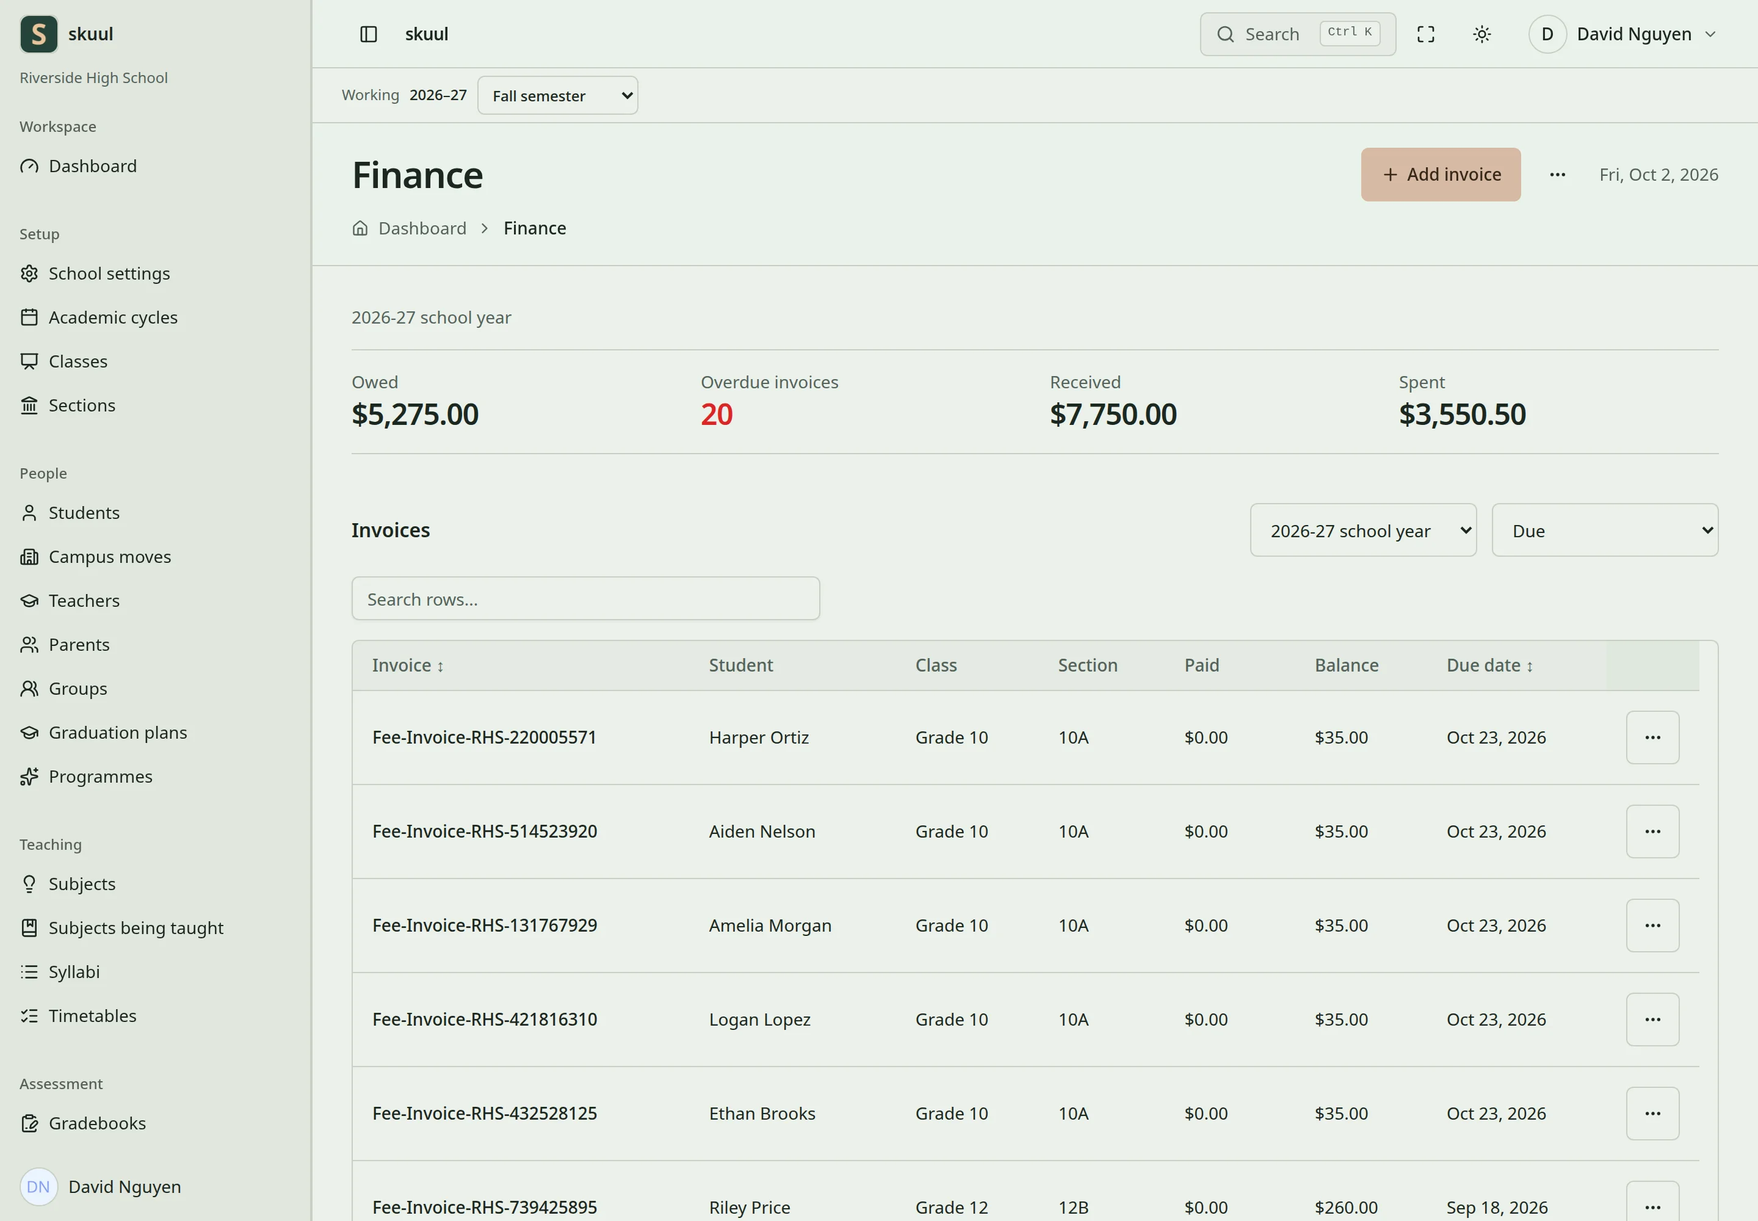
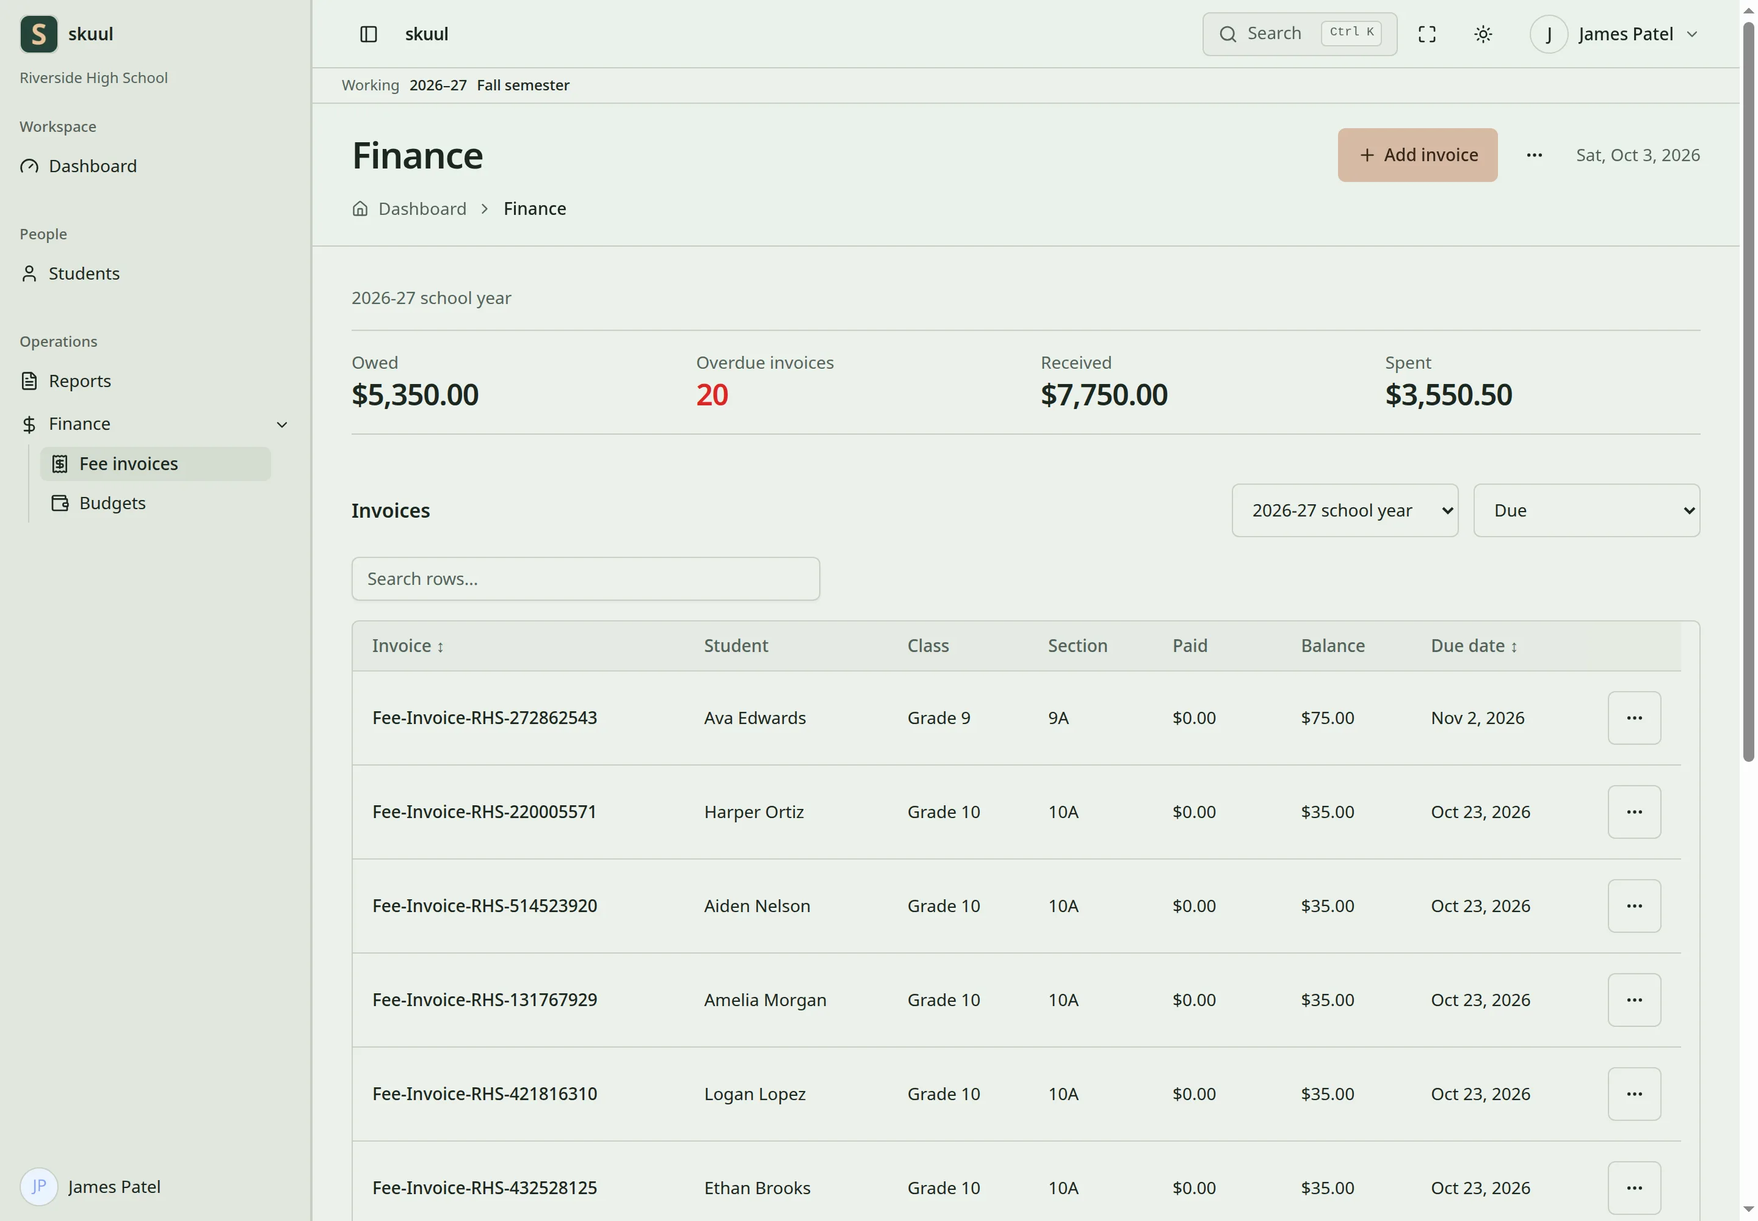
Match the invoice and payment guides to the app
Show where fee categories and fees are, the form total, the status
names, and how to correct a posted invoice. Describe the labelled
payment form, held credit, take-backs, refunds, waivers, and
write-offs as they run. Add the create form, the invoice, and the
student account, and recapture the Finance page and payment form.

diff --git a/current/finance/payments.md b/current/finance/payments.md
@@ -1,113 +1,133 @@
 # Payments, credit, refunds, and corrections
 
-Record money only after the office confirms receipt.
-Open **Finance → Fee invoices**, select the invoice, then select **Take payment**.
-Use **Student account** for credit, reversals, refunds, waivers, and write-offs.
+Record money only after the office confirms that it arrived.
+Take a payment from the invoice.
+Use the learner's **Student account** for credit, refunds, take-backs, waivers, and write-offs.
 
 ## Access and amount rules
 
-Reading invoices requires `read fee invoice`.
-Taking payment and applying held credit require `update fee invoice`.
-Reversals, refunds, waivers, and write-offs require `refund student payment`.
-The relevant record must belong to the authorized billing campus.
+| Task | Campus permission |
+| --- | --- |
+| Read invoices and accounts | `read fee invoice` |
+| Take a payment, or use held credit | `update fee invoice` |
+| Take back a payment, give money back, waive, or write off | `refund student payment` |
 
-Payment and adjustment fields use decimal major units.
-For NGN, enter `1250.50` for ₦1,250.50.
-Invoice creation requires whole major-unit amounts instead. See [invoice amount rules](./invoices).
+Payment and adjustment amounts accept two decimal places, such as `1250.50`.
+Invoice amounts are whole numbers. See [invoice amount rules](./invoices).
 
 ## Record a payment
 
-![The payment form shows what the learner owes, the amount, date, method, reference, and note fields.](/images/current/student-payment-light-desktop.webp)
+![The Take payment form shows who pays, what is paid and owed, then Amount, Received on, Paid by, Reference, Note, and Record payment.](/images/current/student-payment-light-desktop.webp)
 
 Record money received and review any credit left unallocated.
 
-1. Verify the learner and invoice against the receipt or bank confirmation.
-2. Enter **Amount** and **Received on**.
-3. Select the method under **Paid by**.
-4. Enter **Reference** and an optional **Note**.
-5. Review allocation or select **Split across fees**.
-6. Select **Record payment**.
-7. Review the confirmation, invoice balance, and payment history.
+1. Open the invoice and select **Take payment**.
+2. Check the learner under **From**, and what is **Owed**.
+3. Enter **Amount**.
+4. Check **Received on**. It shows today. A future date is refused.
+5. Under **Paid by**, select how the money came.
+6. Enter **Reference**. It is required for every method except **Cash**.
+7. Enter an optional **Note**.
+8. Select **Record payment**.
+
+The invoice opens with the message **Payment recorded.**
+Money above what the invoice owes is held as credit, and the message names the amount.
+The invoice's **Payments** list shows the part of each payment used on this invoice.
+Select **Receipt** to print a receipt.
 
 | Field | Requirement |
 | --- | --- |
-| Amount | From 0.01 to 100000000, with at most two decimal places. |
-| Received on | Defaults to campus today. Future dates fail. |
-| Paid by | Available channel in this installation. |
-| Reference | Required for noncash office channels. Maximum 100 characters. |
-| Note | Optional. Maximum 1000 characters. |
-| Split amounts | Nonnegative, with at most two decimal places. |
+| Amount | From 0.01 to 100000000, with up to two decimal places. |
+| Received on | Today or earlier. |
+| Paid by | Cash, Bank transfer, Cheque, Card machine, or Mobile money. |
+| Reference | Required except for Cash. Up to 100 characters. |
+| Note | Optional. Up to 1000 characters. |
 
-Cash posts to the cash account.
-Bank transfer, Cheque, Card machine, and Mobile money post to the bank account.
-A manually recorded channel is evidence entered by the cashier; it does not verify settlement with a provider.
-The current family portal does not provide checkout.
-The Stripe extension does not supply a complete checkout and callback workflow.
+Cash goes to the cash account. The other methods go to the bank account.
+The method is what the cashier records. The app does not check it with a bank or provider.
+The family portal has no online payment.
 
-## Allocate or hold credit
+A reference already used for a payment of this learner is refused, unless that payment was taken back.
+Letter case does not matter: `ach-240104` matches `ACH-240104`.
+The message names the date of the earlier payment. Check it before you try again.
 
-Automatic allocation clears the invoice's oldest eligible fees first.
-**Split across fees** appears when more than one fee remains outstanding.
-Enter the intended allocation for each fee; blank fields allocate nothing to that fee.
-The total split must not exceed the payment.
-Each split must not exceed that fee's outstanding amount.
-Unallocated money remains held credit on the learner's account.
+## Split a payment across fees
+
+**Split across fees** shows when the invoice owes more than one fee.
+Without a split, the payment clears the oldest fees first.
+
+1. Select **Split across fees**.
+2. Enter the amount for each fee. A blank fee gets nothing.
+3. Select **Record payment**.
+
+The split cannot be more than the payment, or more than a fee owes.
+What the split leaves over is held as credit.
 
 Example: an invoice owes 70.00 tuition and 30.00 materials.
-A payment of 120.00 allocates 100.00 and leaves 20.00 held credit.
-If a split allocates only 70.00, the remaining 50.00 stays held credit.
-Held credit is not additional income when later allocated.
+A payment of 120.00 without a split pays both and holds 20.00 as credit.
+With a split of 70.00 to tuition, 50.00 is held as credit.
 
-Open **Student account** and select **Use credit against fees** to allocate available credit to eligible outstanding fees.
-Review the new allocations and remaining credit.
-The action records no new cash or bank receipt.
+## Use held credit
 
-## Correct a payment
+![The Student account shows what the learner owes and the credit held, their invoices, and their payments, with a reversal and a payment taken back.](/images/current/student-account-light-desktop.webp)
+
+Open the invoice's ellipsis and select **Student account**.
+The account shows **Owed**, **Credit held**, the invoices, and the payments.
+
+When the learner holds credit and owes money, select **Use credit against fees**.
+The message names the amount used.
+Using credit records no new money received.
+
+## Take back a payment
+
+Take back a payment that was recorded by mistake, or that the bank returned.
 
 1. Open the learner's **Student account**.
-2. Find the incorrect payment in its history.
-3. Open the payment's reversal control.
-4. Enter a reason of 5 to 500 characters.
-5. Confirm the reversal.
-6. Check the reversed history and restored outstanding fees.
-7. Record a replacement payment only if money was received correctly.
+2. Open the ellipsis of the payment and select **Take back**.
+3. In **Reason**, enter 5 to 500 characters.
+4. Select **Take back**.
 
-The reversal preserves the original payment and posts correcting entries.
-A payment already reversed cannot be reversed again.
-A reversal corrects the record; it does not itself prove money was returned to a family.
+The payment stays in the list, struck through and marked **Taken back**.
+A **Reversal** row shows the reason, and the fees are owed again.
+A payment can be taken back once.
+Taking back a payment does not give money to the family. Use **Give money back** for that.
 
-A reference already used for an unreversed payment to this learner is rejected in the billing campus.
-The comparison ignores letter case.
-Review the existing payment before retrying. Reverse it first only when it is incorrect.
+## Give money back
 
-## Refund held credit
+You can give back held credit only.
 
-Open the refund form in **Student account**.
-Enter **Amount**, **Paid out by**, any required **Reference**, and **Reason**.
-Use a reason of 5 to 500 characters.
-Select **Record the refund** and confirm.
-The amount must not exceed available held credit.
-Allocated money must be corrected through the appropriate operation before it becomes refundable credit.
-Review the payout method, resulting credit, and account history.
+1. On the **Student account**, select **Give money back**.
+2. Enter **Amount**. The heading shows the most you can give back.
+3. Select **Paid out by**, and enter **Reference** when the method needs one.
+4. In **Reason**, enter 5 to 500 characters.
+5. Select **Record the refund**, then confirm.
 
-## Reduce a fee obligation
+To give back money already used on fees, take back that payment first. Its money then becomes credit.
 
-Use the account's fee-relief form for the intended invoice line.
-Choose **Waiver or scholarship** or the write-off option.
-Enter the amount and supporting reason, then confirm the adjustment.
-The amount cannot exceed the eligible fee and account balance.
-A waiver or write-off reduces debt; it does not record received money.
+## Waive or write off a fee
 
-## Resolve a blocked payment or adjustment
+1. On the **Student account**, open the ellipsis of the invoice.
+2. Select **Waive or write off**.
+3. In **Fee**, select the fee. Each fee shows what it still owes.
+4. Enter **Amount**.
+5. In **Kind**, select **Waiver or scholarship**, or **Write-off, cannot collect**.
+6. In **Reason**, enter 5 to 500 characters.
+7. Select **Take it off**, then confirm.
+
+The amount cannot be more than the fee still owes.
+The invoice shows the new waiver, and the learner owes less.
+A waiver or write-off is not money received.
+
+## Problems
 
 | Problem | Action |
 | --- | --- |
-| Invoice is paid in full | Review Student account for held credit. The invoice form has no open fee to collect. |
-| Reference is required | Copy the cheque, transfer, card, or mobile transaction reference. |
-| Split is rejected | Reduce allocations to the payment total and each outstanding fee. |
-| Duplicate reference | Open the existing payment; do not change the reference to bypass the check. |
-| Financial period is closed | Ask the authorized finance operator to review the posting date and period. |
-| Refund exceeds credit | Review existing allocations and prior refunds. |
+| The invoice has no **Take payment** | It is paid. Check the **Student account** for held credit. |
+| The reference is required | Enter the cheque number or the transfer, card, or mobile money reference. |
+| The reference was already used | Open the earlier payment. Do not change the reference to get past the check. |
+| The split is refused | Make the split no more than the payment, and no more than each fee owes. |
+| The date is refused | Use today or an earlier date in an open financial period. |
+| The refund is refused | Give back no more than the credit held. |
 
-After every correction, reconcile the invoice, learner account, and [ledger reports](../operations/reports).
-See [payment extensions](../reference/extensions) before enabling provider settings.
+After each correction, check the invoice, the learner's account, and the [ledger reports](../operations/reports).
+See [payment extensions](../reference/extensions) before you turn on a provider.

diff --git a/current/finance/invoices.md b/current/finance/invoices.md
@@ -1,8 +1,13 @@
 # Fees and invoices
 
-Use **Finance → Fee invoices** in the billing campus.
 An invoice charges a learner's account. A payment records money received against that charge.
-Prepare a financial period covering the invoice's issue date before issuing it.
+Open **Finance → Fee invoices** at the campus that bills the learner.
+An open financial period must cover the invoice's issue date.
+
+![The Finance page shows what is owed, received, and spent this school year, and the invoice list with its period and status filters.](/images/current/fee-invoice-light-desktop.webp)
+
+The Finance page lists the campus's invoices.
+Filter by **Financial period** and status, or search the rows.
 
 ## Access and setup
 
@@ -10,93 +15,88 @@ Prepare a financial period covering the invoice's issue date before issuing it.
 | --- | --- |
 | Read invoices | `read fee invoice` |
 | Create invoices | `create fee invoice` |
-| Edit invoice details or take payment | `update fee invoice` |
+| Change an invoice or take payment | `update fee invoice` |
 | Create fee categories | `create fee category` |
 | Create fees | `create fee` |
 
-Select the working cycle for learner selection.
-Only Active and Suspended enrollments are eligible for the creation form.
-Use the fee category and fee pages to create catalogue names and descriptions.
-The invoice form supplies the amounts; the catalogue is not a price list.
-Set the application currency before entering live records. NGN is the default.
-Changing the currency does not convert existing amounts.
+Before the first invoice, create the fees you charge:
 
-::: warning Current invoice input requires whole amounts
-Invoice **Amount**, **Waiver**, and **Fine** fields accept integer major-unit amounts.
-For NGN, enter `1000` for ₦1,000.00.
-Payment forms accept decimal major-unit amounts: enter `1000.00` for the same money.
-The invoice form currently rejects fractional inputs such as `1000.50`.
-Do not enter stored minor-unit amounts into this form.
-Check the formatted total before issuing or collecting money.
+1. On the Finance page, open the ellipsis (**More finance pages**).
+2. Select **Fee categories** and create a category, such as Tuition.
+3. Select **Fees** and create the fees in that category.
+
+A fee is a name only. You enter its amount on each invoice.
+
+The currency comes from the installation setting. NGN is the default.
+Set it before you enter live records. Changing it does not convert existing amounts.
+
+::: warning Invoice amounts are whole numbers
+**Amount**, **Waiver**, and **Fine** on an invoice accept integer major-unit amounts: whole naira, dollars, and so on.
+Under NGN, enter `1000` for ₦1,000.00. The form refuses `1000.50`.
+Payments accept decimal major-unit amounts, with up to two decimal places.
 :::
 
 ## Issue an invoice
 
-![The finance page shows amounts owed and received and the invoice list for the 2026–27 school year.](/images/current/fee-invoice-light-desktop.webp)
+![The Create fee invoice form has six students of section 9B and one fee of 40. The total reads 6 invoices · $40.00 each, and the button reads Create 6 invoices.](/images/current/fee-invoice-create-light-desktop.webp)
 
-Review issued fee lines before taking money.
+1. On the Finance page, select **Add invoice**.
+2. Enter **Issued** and **Due**. **Note** is optional.
+3. Under **Students**, select the class and section.
+4. Select one student, or keep **All students**, then select **Add**.
+5. Repeat for other sections. Remove a student with their **×**.
+6. Under **Fees**, select the fee category and fee, or keep **All fees in this category**, then select **Add**.
+7. Enter **Amount**, **Waiver**, and **Fine** for each fee.
+8. Check the total under the form, such as **6 invoices · $40.00 each**.
+9. Select **Create invoice**, or **Create 6 invoices** for six students.
 
-1. Open the invoice creation page.
-2. Enter **Issued** and **Due** dates.
-3. Enter an optional **Note**.
-4. Select the class, section, and student in **Students**.
-5. Select **Add** in the student section.
-6. Repeat for additional students and review the selected list.
-7. Select **Fee category** and **Fee** in **Fees**.
-8. Select **Add** in the fee section.
-9. Enter each line's **Amount**, **Waiver**, and **Fine** in whole major units.
-10. Review the total and student count.
-11. Select **Create invoice**, or **Create N invoices** for multiple students.
-12. Open each resulting invoice and verify its formatted amount due.
-
-Selecting all students or all fees adds every eligible item in the chosen scope.
-Review the added list before submitting.
-Use a row's remove control to exclude an unintended person or fee.
-**Clear** removes the selected students from this form.
-Multiple students receive separate invoices with the same fee lines.
-The application generates the invoice number; there is no invoice-name input.
+The Finance page opens with the message **Invoice created.** or **6 invoices created.**
+Each student gets a separate invoice with the same fees.
+The app gives each invoice its number.
 
 | Field | Requirement |
 | --- | --- |
-| Issued | Required date. An open financial period must cover it. |
-| Due | Required date on or after Issued. |
-| Note | Optional. Maximum 10000 characters. |
-| Students | At least one eligible enrollment in the billing campus. |
-| Fees | At least one fee from this campus. |
-| Amount | Integer major units, from 1 to 100000000. |
-| Waiver | Nonnegative integer major units, no greater than Amount. |
-| Fine | Nonnegative integer major units, up to 100000000. |
+| Issued | Required. An open financial period must cover it. |
+| Due | Required. On or after Issued. |
+| Note | Optional. Up to 10000 characters. |
+| Students | At least one Active or Suspended learner of this campus. |
+| Fees | At least one fee of this campus. |
+| Amount | Whole number from 1 to 100000000. |
+| Waiver | Whole number from 0. Not more than Amount. |
+| Fine | Whole number from 0 to 100000000. |
 
-Each line charges `Amount - Waiver + Fine`.
-Example: `1000` amount, `100` waiver, and `50` fine charge ₦950.00 under NGN.
-Two selected learners each receive ₦950.00; the batch total is ₦1,900.00.
-Creation posts an eligible charge to the learner's account.
-A repeated submission of the same form uses the same batch identifier to avoid duplicate invoices.
+Each fee charges `Amount − Waiver + Fine`.
+Example: amount `1000`, waiver `100`, and fine `50` charge ₦950.00 under NGN.
+Two students each get an invoice of ₦950.00.
+If you select **Create invoice** twice, the app creates the invoices once.
 
 ## View and print
 
-Open the invoice and review **Fees**, **Payments**, and the amount owed.
-Use **Print invoice** for the issued document.
-Use **Student account** to review charges, payment allocations, and held credit.
-Use **Take payment** for money already received.
-Review [payment procedures](./payments) before entering an amount.
+![The invoice shows the learner, its status, the issue and due dates, the amount charged and owed, the fees, and the payments.](/images/current/fee-invoice-view-light-desktop.webp)
+
+Select an invoice number to open it.
+The status is **Not paid**, **Part paid**, or **Paid**.
+The ellipsis beside **Take payment** has **Print invoice**, **Edit**, and **Student account**.
+Use **Take payment** for money received. See [payments](./payments).
 
 ## Correct an invoice
 
 Select **Edit** to change **Due** or **Note**, then select **Save**.
-The issue date is part of the posted charge and cannot change after posting.
-Line changes depend on posting state and the permitted adjustment operation.
-Do not change invoice fields to represent received money or a cash refund.
-Use the student account's waiver, write-off, reversal, and credit procedures for financial corrections.
+The issue date cannot change.
+
+The fees of an invoice are locked when it is in the books. The edit page marks them **Posted**.
+To reduce what the learner owes, use **Waive or write off** on the **Student account**. See [payments](./payments).
+To charge more, create another invoice.
+Do not change an invoice to record money received or returned.
 
 | Problem | Action |
 | --- | --- |
-| No learners appear | Select the working cycle and section. Check Active or Suspended enrollment. |
-| No fees appear | Create a fee category and fee in this campus. |
-| Due date is rejected | Use a date on or after Issued. |
-| Posting is refused | Check that an open financial period covers Issued. |
-| Fractional amount is rejected | The current invoice form accepts whole major units only. Ask the operator to review fractional billing support. |
-| Batch contains an unintended learner | Remove the learner before creation. After posting, use the authorized correction workflow. |
+| No students in the list | Select the class and section of the working school year. Only Active and Suspended learners are listed. |
+| No fees in the list | Create a fee category and fees at this campus. |
+| The due date is refused | Use a date on or after **Issued**. |
+| The issue date is refused | An open financial period must cover it. See [financial periods](./ledger). |
+| A decimal amount is refused | Invoice amounts are whole numbers. |
+| A wrong student is in the list | Remove them before you create the invoices. After that, waive or write off their fee. |
 
-Academic closure does not close the financial period.
-See [financial periods and accounting](./ledger) for posting and closure.
+Closing a school year does not close its financial period.
+See [financial periods and accounting](./ledger).
